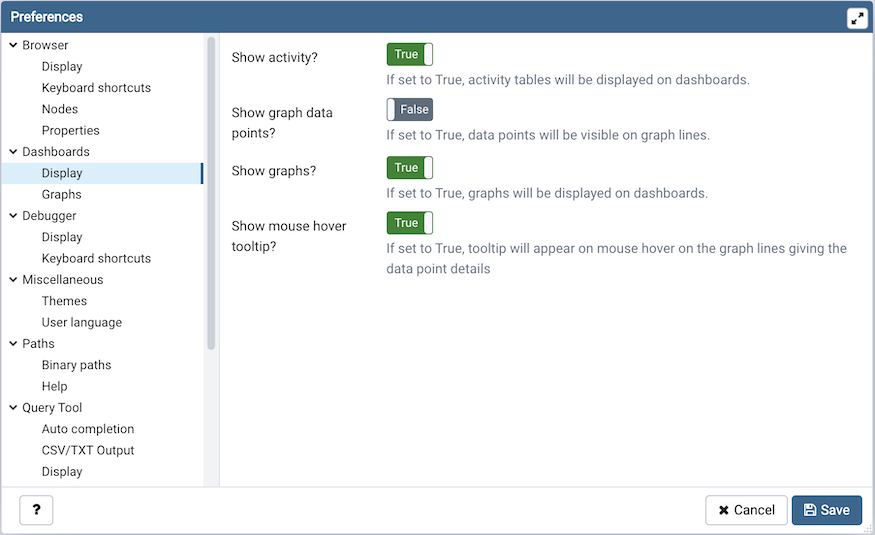
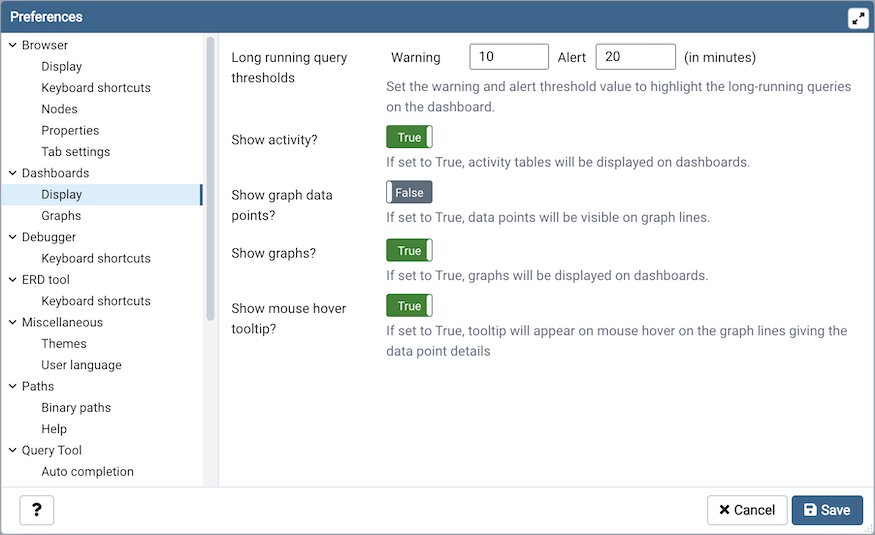
Highlighted long running queries on the dashboards. Fixes #1975

diff --git a/web/pgadmin/static/js/backform.pgadmin.js b/web/pgadmin/static/js/backform.pgadmin.js
@@ -3584,5 +3584,61 @@ define([
     },
   });
 
+  Backform.ThresholdControl = Backform.Control.extend({
+    template: _.template([
+      '<label class="<%=Backform.controlLabelClassName%>"><%=label%></label>',
+      '<div class="<%=Backform.controlContainerClassName%>">',
+      '  <span class="control-label pg-el-sm-2 pg-el-12"><%=warning_label%></span>',
+      '  <input type="text" id="warning_threshold" class="pg-el-sm-2" value="<%=warning_value%>" />',
+      '  <span class="control-label pg-el-sm-1 pg-el-12"><%=alert_label%></span>',
+      '  <input type="text" id="alert_threshold" class="pg-el-sm-2" value="<%=alert_value%>" />',
+      '  <span class="control-label pg-el-sm-3 pg-el-12"><%=unit%></span>',
+      '  <% if (helpMessage && helpMessage.length) { %>',
+      '    <span class="<%=Backform.helpMessageClassName%>"><%=helpMessage%></span>',
+      '  <% } %>',
+      '</div>',
+    ].join('\n')),
+
+    events: {
+      'change input#warning_threshold': 'onChange',
+      'change input#alert_threshold': 'onChange',
+    },
+    initialize: function() {
+      Backform.Control.prototype.initialize.apply(this, arguments);
+    },
+
+    render: function() {
+      var field = _.defaults(this.field.toJSON(), this.defaults),
+        attributes = this.model.toJSON(),
+        threshold_val = [];
+
+      if (!_.isUndefined(this.model.get('value')) && !_.isNull(this.model.get('value'))){
+        threshold_val = this.model.get('value').split('|');
+      }
+
+      var data = _.extend(field, {
+        attributes: attributes,
+        'warning_value': threshold_val.length > 0 ? threshold_val[0] : '',
+        'alert_value': threshold_val.length > 1 ? threshold_val[1] : ''
+      });
+
+      this.$el.html(this.template(data));
+
+      return this;
+    },
+
+    onChange: function() {
+      // Get the value from raw jquery and concat it using |
+      // and set the value
+      var warning_threshold = $('input#warning_threshold').val(),
+        alert_threshold = $('input#alert_threshold').val();
+
+      var threshold_val = warning_threshold + '|' + alert_threshold;
+      this.model.set(this.field.get('name'), threshold_val, {
+        silent: false
+      });
+    }
+  });
+
   return Backform;
 });

diff --git a/web/pgadmin/dashboard/static/js/dashboard.js b/web/pgadmin/dashboard/static/js/dashboard.js
@@ -437,12 +437,31 @@ define('pgadmin.dashboard', [
 
       var data = new Data();
 
+      var HighlightedRow = Backgrid.Row.extend({
+        render: function() {
+          Backgrid.Row.prototype.render.call(this);
+          var row_type = this.model.get('row_type');
+
+          if (_.isUndefined(row_type) || _.isNull(row_type)) {
+            this.$el.removeClass('alert');
+            this.$el.removeClass('warning');
+          } else if (row_type === 'warning') {
+            this.$el.addClass('warning');
+          } else if (row_type === 'alert') {
+            this.$el.addClass('alert');
+          }
+
+          return this;
+        }
+      });
+
       // Set up the grid
       var grid = new Backgrid.Grid({
         emptyText: gettext('No data found'),
         columns: columns,
         collection: data,
         className: 'backgrid presentation table table-bordered table-noouter-border table-hover',
+        row: HighlightedRow
       });
 
       // Render the grid

diff --git a/web/pgadmin/preferences/static/js/preferences.js b/web/pgadmin/preferences/static/js/preferences.js
@@ -309,6 +309,11 @@ define('pgadmin.preferences', [
               return 'radioModern';
             case 'selectFile':
               return 'binary-paths-grid';
+            case 'threshold':
+              p.warning_label = gettext('Warning');
+              p.alert_label = gettext('Alert');
+              p.unit = gettext('(in minutes)');
+              return 'threshold';
             default:
               if (console && console.warn) {
                 // Warning for developer only.

diff --git a/web/pgadmin/static/scss/_backgrid.overrides.scss b/web/pgadmin/static/scss/_backgrid.overrides.scss
@@ -339,6 +339,14 @@ table.backgrid {
       border-bottom-color: $color-gray-light !important;
     }
   }
+
+  tr.warning {
+    background-color: $color-warning !important;
+  }
+
+  tr.alert {
+    background-color: $color-danger-light !important;
+  }
 }
 
 table tr th button {

diff --git a/web/pgadmin/dashboard/__init__.py b/web/pgadmin/dashboard/__init__.py
@@ -8,6 +8,7 @@
 ##########################################################################
 
 """A blueprint module implementing the dashboard frame."""
+import math
 from functools import wraps
 from flask import render_template, url_for, Response, g, request
 from flask_babelex import gettext
@@ -148,6 +149,15 @@ class DashboardModule(PgAdminModule):
             help_str=gettext('If set to True, tooltip will appear on mouse '
                              'hover on the graph lines giving the data point '
                              'details')
+        )
+
+        self.long_running_query_threshold = self.dashboard_preference.register(
+            'display', 'long_running_query_threshold',
+            gettext('Long running query thresholds'), 'threshold',
+            None, category_label=PREF_LABEL_DISPLAY,
+            help_str=gettext('Set the warning and alert threshold value to '
+                             'highlight the long-running queries on the '
+                             'dashboard.')
         )
 
     def get_exposed_url_endpoints(self):
@@ -300,13 +310,14 @@ def index(sid=None, did=None):
         )
 
 
-def get_data(sid, did, template):
+def get_data(sid, did, template, check_long_running_query=False):
     """
     Generic function to get server stats based on an SQL template
     Args:
         sid: The server ID
         did: The database ID
         template: The SQL template name
+        check_long_running_query:
 
     Returns:
 
@@ -324,10 +335,45 @@ def get_data(sid, did, template):
     if not status:
         return internal_server_error(errormsg=res)
 
+    # Check the long running query status and set the row type.
+    if check_long_running_query:
+        get_long_running_query_status(res['rows'])
+
     return ajax_response(
         response=res['rows'],
         status=200
     )
+
+
+def get_long_running_query_status(activities):
+    """
+    This function is used to check the long running query and set the
+    row type to highlight the row color accordingly
+    """
+    dash_preference = Preferences.module('dashboards')
+    long_running_query_threshold = \
+        dash_preference.preference('long_running_query_threshold').get()
+
+    if long_running_query_threshold is not None:
+        long_running_query_threshold = long_running_query_threshold.split('|')
+
+        warning_value = float(long_running_query_threshold[0]) \
+            if long_running_query_threshold[0] != '' else math.inf
+        alert_value = float(long_running_query_threshold[1]) \
+            if long_running_query_threshold[1] != '' else math.inf
+
+        for row in activities:
+            row['row_type'] = None
+
+            # We care for only those queries which are in active state.
+            if row['state'] != 'active':
+                continue
+
+            active_since = float(row['active_since'])
+            if active_since > warning_value:
+                row['row_type'] = 'warning'
+            if active_since > alert_value:
+                row['row_type'] = 'alert'
 
 
 @blueprint.route('/dashboard_stats',
@@ -376,7 +422,7 @@ def activity(sid=None, did=None):
     :param sid: server id
     :return:
     """
-    return get_data(sid, did, 'activity.sql')
+    return get_data(sid, did, 'activity.sql', True)
 
 
 @blueprint.route('/locks/', endpoint='locks')

diff --git a/web/pgadmin/utils/preferences.py b/web/pgadmin/utils/preferences.py
@@ -437,7 +437,7 @@ class Preferences(object):
         assert _type in (
             'boolean', 'integer', 'numeric', 'date', 'datetime',
             'options', 'multiline', 'switch', 'node', 'text', 'radioModern',
-            'keyboardshortcut', 'select2', 'selectFile',
+            'keyboardshortcut', 'select2', 'selectFile', 'threshold'
         ), "Type cannot be found in the defined list!"
 
         (cat['preferences'])[name] = res = _Preference(

diff --git a/docs/en_US/release_notes_5_5.rst b/docs/en_US/release_notes_5_5.rst
@@ -9,6 +9,7 @@ This release contains a number of bug fixes and new features since the release o
 New features
 ************
 
+| `Issue #1975 <https://redmine.postgresql.org/issues/1975>`_ -  Highlighted long running queries on the dashboards.
 | `Issue #3893 <https://redmine.postgresql.org/issues/3893>`_ -  Added support for Reassign/Drop Owned for login roles.
 | `Issue #3920 <https://redmine.postgresql.org/issues/3920>`_ -  Do not block the query editor window when running a query.
 | `Issue #6559 <https://redmine.postgresql.org/issues/6559>`_ -  Added option to provide maximum width of the column when 'Resize by data?’ option in the preferences is set to True.

diff --git a/docs/en_US/preferences.rst b/docs/en_US/preferences.rst
@@ -154,6 +154,9 @@ the graphs on the *Dashboard* tab:
     :alt: Preferences dialog dashboard display options
     :align: center
 
+* Set the warning and alert threshold value to highlight the long-running
+  queries on the dashboard.
+
 * When the *Show activity?* switch is set to *True*, activity tables will be
   displayed on dashboards.
 
